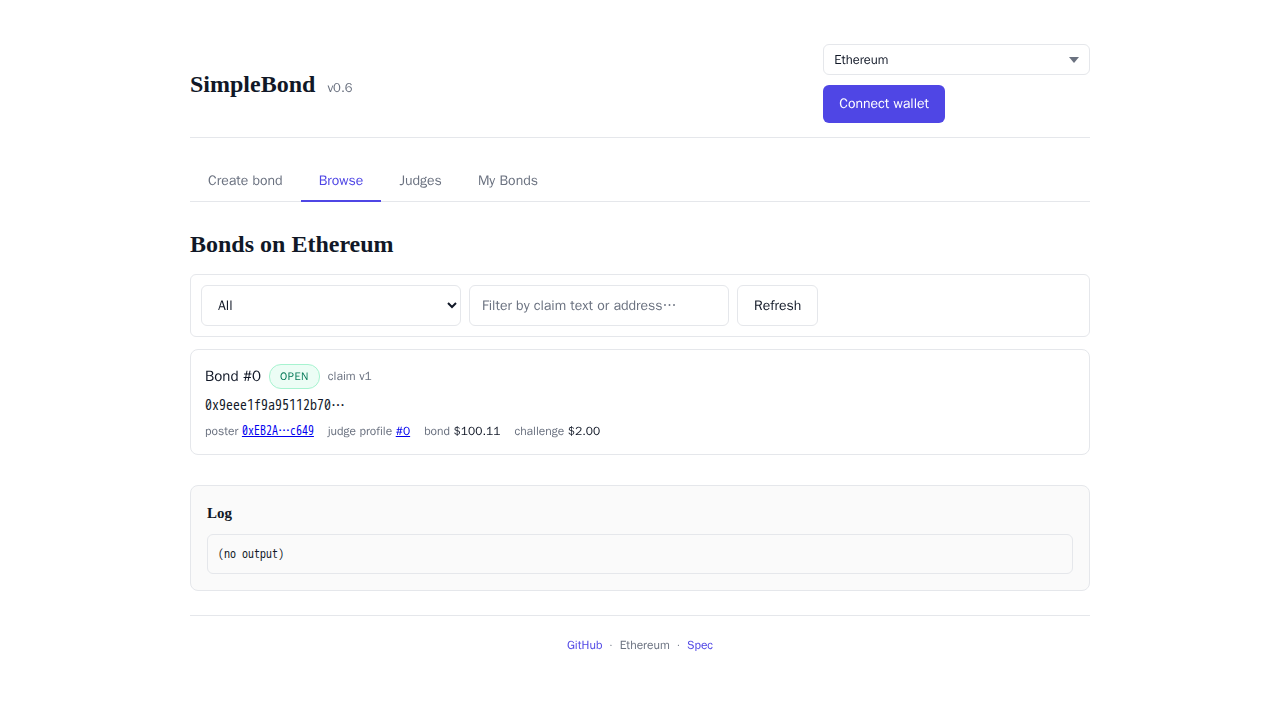
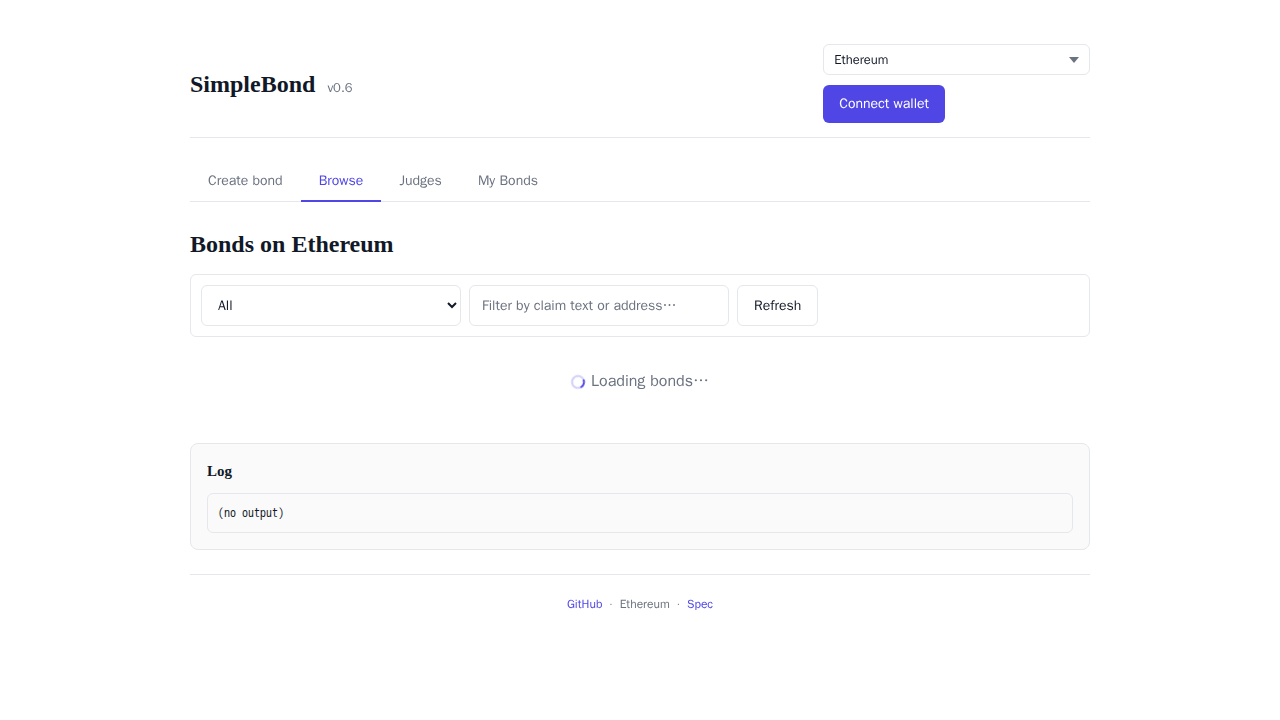
frontend: chunk eth_getLogs + detect judge operator on-chain
A user who is the judge of bond #1 saw no "Void bond" control and "My
Bonds"/"Bonds judged (0)" despite operating the bond's judge contract.
Two root causes:

1. eth_getLogs range limit. Every queryFilter scanned from the
   contract's deploy block to head (~90k blocks). drpc free tier
   rejects spans over ~10k blocks with a 400 (publicnode errors too),
   so queryFilter threw and the withTimeout fallback returned [] —
   silently zeroing My Bonds, Browse, and the "bonds judged" count.
   Added queryFilterChunked() which walks the range in 9k-block
   windows and concatenates; verified it finds bond #1 (10 windows).
   Routed all 8 queryFilter call sites through it (browse, my-bonds
   poster/challenger/judge, bond-detail created/modified, judge
   profile page).

2. Judge controls keyed off localStorage. isJudgeOperator compared
   b.judge to getMyJudgeContract() (this browser's localStorage), so a
   judge on a different device / cleared cache saw no controls — even
   though "Void bond (rejectBond)" needs no challenges and should
   always be available to the operator. Now reads the judge contract's
   operator() on-chain and compares to the connected account, with the
   localStorage match as fallback. Auto-links the judge into
   localStorage when a match is found so the rest of the app syncs.

Local 33/33.

diff --git a/frontend/index.html b/frontend/index.html
@@ -619,6 +619,28 @@
   function withTimeout(promise, ms, fallback) {
     return Promise.race([promise, new Promise(r => setTimeout(() => r(fallback), ms))]);
   }
+  // Free-tier public RPCs cap eth_getLogs block ranges (drpc rejects spans
+  // over ~10k blocks with a 400; publicnode errors too). Scanning from the
+  // contract's deploy block to head is well over that, so queryFilter was
+  // silently failing and returning [] — which is why "My Bonds" and
+  // "Bonds judged" showed 0. This walks the range in safe windows and
+  // concatenates. Newest-first so early results render fast.
+  const LOG_CHUNK = 9000;
+  async function queryFilterChunked(contract, filter, fromBlock) {
+    const provider = contract.runner?.provider || readProvider();
+    const latest = await provider.getBlockNumber();
+    const start = Math.max(0, fromBlock || 0);
+    const out = [];
+    for (let hi = latest; hi >= start; hi -= (LOG_CHUNK + 1)) {
+      const lo = Math.max(start, hi - LOG_CHUNK);
+      try {
+        const logs = await contract.queryFilter(filter, lo, hi);
+        if (logs.length) out.push(...logs);
+      } catch (_) { /* skip a bad window rather than abort the whole scan */ }
+      if (lo === start) break;
+    }
+    return out;
+  }
   function isUserRejection(err) {
     if (!err) return false;
     if (err.code === 4001 || err.code === 'ACTION_REJECTED') return true;
@@ -1443,7 +1465,7 @@
       try {
         const c = chain();
         const fromBlock = c?.deployBlock || 0;
-        const logs = await withTimeout(bc.queryFilter(bc.filters.BondCreated(), fromBlock), 8000, []);
+        const logs = await withTimeout(queryFilterChunked(bc, bc.filters.BondCreated(), fromBlock), 20000, []);
         const map = {};
         for (const ev of logs) {
           const bondId = Number(ev.args.bondId);
@@ -1451,7 +1473,7 @@
         }
         // Also pick up ClaimModified — use latest version content
         try {
-          const modLogs = await withTimeout(bc.queryFilter(bc.filters.ClaimModified(), fromBlock), 8000, []);
+          const modLogs = await withTimeout(queryFilterChunked(bc, bc.filters.ClaimModified(), fromBlock), 20000, []);
           for (const ev of modLogs) {
             const bondId = Number(ev.args.bondId);
             const newVersion = Number(ev.args.newVersion);
@@ -2617,20 +2639,20 @@
 
     try {
       const filter = bc.filters.BondCreated(null, account);
-      const logs = await withTimeout(bc.queryFilter(filter, fromBlock), 12000, []);
+      const logs = await withTimeout(queryFilterChunked(bc, filter, fromBlock), 25000, []);
       posterIds = logs.map(l => Number(l.args.bondId));
     } catch (err) { log(`Poster events failed: ${friendlyError(err)}`, 'err'); }
 
     try {
       const filter = bc.filters.Challenged(null, null, account);
-      const logs = await withTimeout(bc.queryFilter(filter, fromBlock), 12000, []);
+      const logs = await withTimeout(queryFilterChunked(bc, filter, fromBlock), 25000, []);
       challengerIds = [...new Set(logs.map(l => Number(l.args.bondId)))];
     } catch (err) { log(`Challenger events failed: ${friendlyError(err)}`, 'err'); }
 
     if (myJudge) {
       try {
         const filter = bc.filters.BondCreated(null, null, myJudge);
-        const logs = await withTimeout(bc.queryFilter(filter, fromBlock), 12000, []);
+        const logs = await withTimeout(queryFilterChunked(bc, filter, fromBlock), 25000, []);
         judgeIds = logs.map(l => Number(l.args.bondId));
       } catch (err) { log(`Judge events failed: ${friendlyError(err)}`, 'err'); }
     }
@@ -2729,12 +2751,12 @@
       try {
         const c = chain();
         const fromBlock = c?.deployBlock || 0;
-        const createdLogs = await withTimeout(bc.queryFilter(bc.filters.BondCreated(bondId), fromBlock), 8000, []);
+        const createdLogs = await withTimeout(queryFilterChunked(bc, bc.filters.BondCreated(bondId), fromBlock), 20000, []);
         if (createdLogs.length > 0) {
           claimContent = String(createdLogs[0].args.claimContent || '');
           claimContentVersion = 1;
         }
-        const modLogs = await withTimeout(bc.queryFilter(bc.filters.ClaimModified(bondId), fromBlock), 8000, []);
+        const modLogs = await withTimeout(queryFilterChunked(bc, bc.filters.ClaimModified(bondId), fromBlock), 20000, []);
         let latest = claimContentVersion;
         for (const ev of modLogs) {
           const v = Number(ev.args.newVersion);
@@ -2757,8 +2779,25 @@
       const beliefs = beliefThresholds(bondAmount, challengeAmount, judgeFee);
 
       const isPoster = signer && account && account.toLowerCase() === b.poster.toLowerCase();
-      const myJudgeAddr = getMyJudgeContract();
-      const isJudgeOperator = signer && account && myJudgeAddr && myJudgeAddr.toLowerCase() === b.judge.toLowerCase();
+      // Judge controls must show for whoever actually operates the bond's
+      // judge contract — determined ON-CHAIN, not from this browser's
+      // localStorage (which a different device / a cleared cache won't have).
+      // Fall back to the localStorage match if the operator() read fails.
+      let isJudgeOperator = false;
+      if (signer && account && b.judge && b.judge !== ethers.ZeroAddress) {
+        try {
+          const op = await manualJudgeContract(b.judge, false).operator();
+          isJudgeOperator = op && op.toLowerCase() === account.toLowerCase();
+        } catch (_) {
+          const myJudgeAddr = getMyJudgeContract();
+          isJudgeOperator = !!(myJudgeAddr && myJudgeAddr.toLowerCase() === b.judge.toLowerCase());
+        }
+        // If they operate this judge but the browser hasn't linked it, link
+        // it now so the rest of the app (My Judge panel, etc.) stays in sync.
+        if (isJudgeOperator && getMyJudgeContract()?.toLowerCase() !== b.judge.toLowerCase()) {
+          setMyJudgeContract(ethers.getAddress(b.judge));
+        }
+      }
       const isNonPoster = signer && account && account.toLowerCase() !== b.poster.toLowerCase();
       const bondOpen = !b.settled && !b.closed;
       const canChallenge = isNonPoster && bondOpen && Number(b.pendingCount) < Number(b.maxChallenges) && Number(b.pendingCount) <= 100;
@@ -3206,7 +3245,7 @@
       try {
         const bc = bondReadContract();
         const fromBlock = c?.deployBlock || 0;
-        const logs = await withTimeout(bc.queryFilter(bc.filters.BondCreated(null, null, entry.judgeContract), fromBlock), 10000, []);
+        const logs = await withTimeout(queryFilterChunked(bc, bc.filters.BondCreated(null, null, entry.judgeContract), fromBlock), 25000, []);
         bondsJudged = logs.map(l => ({ bondId: Number(l.args.bondId), claim: String(l.args.claimContent || '') }));
       } catch (_) {}
 

diff --git a/frontend/v6/index.html b/frontend/v6/index.html
@@ -619,6 +619,28 @@
   function withTimeout(promise, ms, fallback) {
     return Promise.race([promise, new Promise(r => setTimeout(() => r(fallback), ms))]);
   }
+  // Free-tier public RPCs cap eth_getLogs block ranges (drpc rejects spans
+  // over ~10k blocks with a 400; publicnode errors too). Scanning from the
+  // contract's deploy block to head is well over that, so queryFilter was
+  // silently failing and returning [] — which is why "My Bonds" and
+  // "Bonds judged" showed 0. This walks the range in safe windows and
+  // concatenates. Newest-first so early results render fast.
+  const LOG_CHUNK = 9000;
+  async function queryFilterChunked(contract, filter, fromBlock) {
+    const provider = contract.runner?.provider || readProvider();
+    const latest = await provider.getBlockNumber();
+    const start = Math.max(0, fromBlock || 0);
+    const out = [];
+    for (let hi = latest; hi >= start; hi -= (LOG_CHUNK + 1)) {
+      const lo = Math.max(start, hi - LOG_CHUNK);
+      try {
+        const logs = await contract.queryFilter(filter, lo, hi);
+        if (logs.length) out.push(...logs);
+      } catch (_) { /* skip a bad window rather than abort the whole scan */ }
+      if (lo === start) break;
+    }
+    return out;
+  }
   function isUserRejection(err) {
     if (!err) return false;
     if (err.code === 4001 || err.code === 'ACTION_REJECTED') return true;
@@ -1443,7 +1465,7 @@
       try {
         const c = chain();
         const fromBlock = c?.deployBlock || 0;
-        const logs = await withTimeout(bc.queryFilter(bc.filters.BondCreated(), fromBlock), 8000, []);
+        const logs = await withTimeout(queryFilterChunked(bc, bc.filters.BondCreated(), fromBlock), 20000, []);
         const map = {};
         for (const ev of logs) {
           const bondId = Number(ev.args.bondId);
@@ -1451,7 +1473,7 @@
         }
         // Also pick up ClaimModified — use latest version content
         try {
-          const modLogs = await withTimeout(bc.queryFilter(bc.filters.ClaimModified(), fromBlock), 8000, []);
+          const modLogs = await withTimeout(queryFilterChunked(bc, bc.filters.ClaimModified(), fromBlock), 20000, []);
           for (const ev of modLogs) {
             const bondId = Number(ev.args.bondId);
             const newVersion = Number(ev.args.newVersion);
@@ -2617,20 +2639,20 @@
 
     try {
       const filter = bc.filters.BondCreated(null, account);
-      const logs = await withTimeout(bc.queryFilter(filter, fromBlock), 12000, []);
+      const logs = await withTimeout(queryFilterChunked(bc, filter, fromBlock), 25000, []);
       posterIds = logs.map(l => Number(l.args.bondId));
     } catch (err) { log(`Poster events failed: ${friendlyError(err)}`, 'err'); }
 
     try {
       const filter = bc.filters.Challenged(null, null, account);
-      const logs = await withTimeout(bc.queryFilter(filter, fromBlock), 12000, []);
+      const logs = await withTimeout(queryFilterChunked(bc, filter, fromBlock), 25000, []);
       challengerIds = [...new Set(logs.map(l => Number(l.args.bondId)))];
     } catch (err) { log(`Challenger events failed: ${friendlyError(err)}`, 'err'); }
 
     if (myJudge) {
       try {
         const filter = bc.filters.BondCreated(null, null, myJudge);
-        const logs = await withTimeout(bc.queryFilter(filter, fromBlock), 12000, []);
+        const logs = await withTimeout(queryFilterChunked(bc, filter, fromBlock), 25000, []);
         judgeIds = logs.map(l => Number(l.args.bondId));
       } catch (err) { log(`Judge events failed: ${friendlyError(err)}`, 'err'); }
     }
@@ -2729,12 +2751,12 @@
       try {
         const c = chain();
         const fromBlock = c?.deployBlock || 0;
-        const createdLogs = await withTimeout(bc.queryFilter(bc.filters.BondCreated(bondId), fromBlock), 8000, []);
+        const createdLogs = await withTimeout(queryFilterChunked(bc, bc.filters.BondCreated(bondId), fromBlock), 20000, []);
         if (createdLogs.length > 0) {
           claimContent = String(createdLogs[0].args.claimContent || '');
           claimContentVersion = 1;
         }
-        const modLogs = await withTimeout(bc.queryFilter(bc.filters.ClaimModified(bondId), fromBlock), 8000, []);
+        const modLogs = await withTimeout(queryFilterChunked(bc, bc.filters.ClaimModified(bondId), fromBlock), 20000, []);
         let latest = claimContentVersion;
         for (const ev of modLogs) {
           const v = Number(ev.args.newVersion);
@@ -2757,8 +2779,25 @@
       const beliefs = beliefThresholds(bondAmount, challengeAmount, judgeFee);
 
       const isPoster = signer && account && account.toLowerCase() === b.poster.toLowerCase();
-      const myJudgeAddr = getMyJudgeContract();
-      const isJudgeOperator = signer && account && myJudgeAddr && myJudgeAddr.toLowerCase() === b.judge.toLowerCase();
+      // Judge controls must show for whoever actually operates the bond's
+      // judge contract — determined ON-CHAIN, not from this browser's
+      // localStorage (which a different device / a cleared cache won't have).
+      // Fall back to the localStorage match if the operator() read fails.
+      let isJudgeOperator = false;
+      if (signer && account && b.judge && b.judge !== ethers.ZeroAddress) {
+        try {
+          const op = await manualJudgeContract(b.judge, false).operator();
+          isJudgeOperator = op && op.toLowerCase() === account.toLowerCase();
+        } catch (_) {
+          const myJudgeAddr = getMyJudgeContract();
+          isJudgeOperator = !!(myJudgeAddr && myJudgeAddr.toLowerCase() === b.judge.toLowerCase());
+        }
+        // If they operate this judge but the browser hasn't linked it, link
+        // it now so the rest of the app (My Judge panel, etc.) stays in sync.
+        if (isJudgeOperator && getMyJudgeContract()?.toLowerCase() !== b.judge.toLowerCase()) {
+          setMyJudgeContract(ethers.getAddress(b.judge));
+        }
+      }
       const isNonPoster = signer && account && account.toLowerCase() !== b.poster.toLowerCase();
       const bondOpen = !b.settled && !b.closed;
       const canChallenge = isNonPoster && bondOpen && Number(b.pendingCount) < Number(b.maxChallenges) && Number(b.pendingCount) <= 100;
@@ -3206,7 +3245,7 @@
       try {
         const bc = bondReadContract();
         const fromBlock = c?.deployBlock || 0;
-        const logs = await withTimeout(bc.queryFilter(bc.filters.BondCreated(null, null, entry.judgeContract), fromBlock), 10000, []);
+        const logs = await withTimeout(queryFilterChunked(bc, bc.filters.BondCreated(null, null, entry.judgeContract), fromBlock), 25000, []);
         bondsJudged = logs.map(l => ({ bondId: Number(l.args.bondId), claim: String(l.args.claimContent || '') }));
       } catch (_) {}
 
